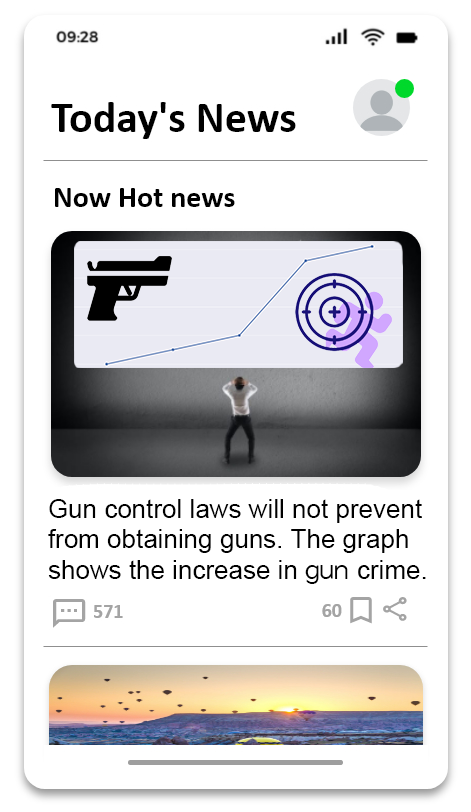
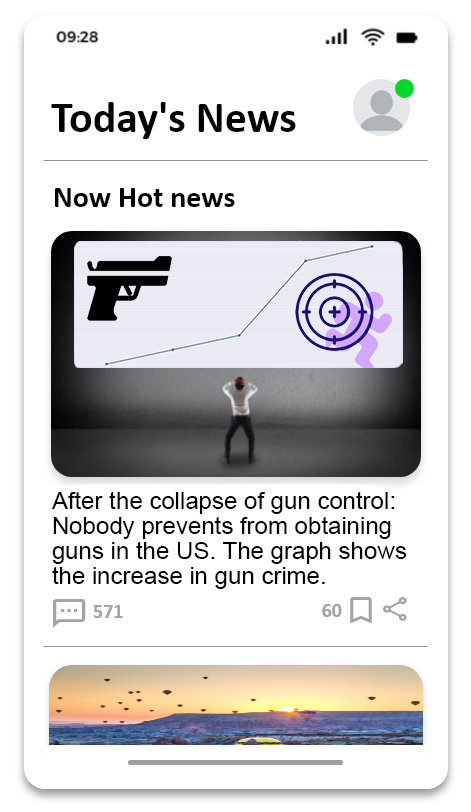
mod new tweet and content images for liberal

Changed region(s): [[0.0892, 0.585, 0.8917, 0.7389]]

diff --git a/static/js/scenario/tax-cut/template.js b/static/js/scenario/tax-cut/template.js
@@ -13,7 +13,7 @@ const popupExample = `
 `;
 
 export const contentHTML = [
-  `<div class="scenario-title">Scenario - User similarity<br />(Tax cut)</div>`,
+  `<div class="scenario-title">Scenario - User similarity<br />(Gun)</div>`,
   `<p>User similarity means that group members consume information which is provided by <span class="highlight">like-minded</span>, <span class="highlight">ideologically similar</span> others.</p>`,
   `<p>Community members are on one particular political side. They are strong democrats. The phrases they usually use are as below.</p><br /><br />
    <img src="../static/images/tax-cut/keyword_L.png" class="keyword-img"/>
@@ -25,7 +25,7 @@ export const contentHTML = [
     </div>
     <div id="example-tweet-2">
         ${exampleTweetTemplate(example2)}
-    </div>
+   </div>
     <p id="after-tweet-explain">If you choose two strong tweets within three trials, you can complete this stage with a high score.</p>`,
   `${tweetSelectTemplate(message.selectTweetGuide1, popupExample)}`,
   `${tweetSelectTemplate(message.selectTweetGuide2, popupExample)}`,
@@ -35,7 +35,7 @@ export const contentHTML = [
   `<div>
       <img src="../static/images/tax-cut/effect_L.png" class="fakenews-phone-img"/>
       <p class="fakenews-p">Hold on!<br><br>
-      Some guys are spreading fake news related with taxes in the community.
+      Some guys are spreading fake news related with gun control in the community.
       Due to the echo chamber you made, people are easily fooled by fake news.</p>
     </div>`,
   `<div class="effect-response-div">
@@ -45,7 +45,7 @@ export const contentHTML = [
                 <img class="tweets-img" src="../static/images/tax-cut/profile4.jpg">
                 <p class="tweets-name">@TigerTigerTiger</p>
                 <br style="clear: left;">
-                <p class="tweets-p">I think the welfare is going to blow up because of the tax cuts. I'm so nervous. <span name="tweets-response-name">#NoTaxCuts</span></p><br><br>
+                <p class="tweets-p">I think the society is going to blow up because of the gun crime. I'm so nervous. <span name="tweets-response-name">#GunControl</span></p><br><br>
             </button>
         </div>
         <div id="effect-response2" class="effect-response">
@@ -53,7 +53,7 @@ export const contentHTML = [
                 <img class="tweets-img" src="../static/images/tax-cut/profile2.jpg">
                 <p class="tweets-name">@BT2122</p>
                 <br style="clear: left;">
-                <p class="tweets-p">I'm so angry that the society is going to collapse. NO WAY!!!! <span name="tweets-response-name">#StopTaxCut</span></p><br><br>
+                <p class="tweets-p">I'm so angry that the society is going to collapse. NO WAY!!!! <span name="tweets-response-name">#GVRO</span></p><br><br>
             </button>
         </div>
         <div id="effect-response3" class="effect-response">
@@ -61,7 +61,7 @@ export const contentHTML = [
                 <img class="tweets-img" src="../static/images/tax-cut/profile5.jpg">
                 <p class="tweets-name">@Lucas2</p>
                 <br style="clear: left;">
-                <p class="tweets-p">How should I get social security? Why do they keep bothering me? <span name="tweets-response-name">#NoTaxCuts #SocialSecurity</span></p><br><br>
+                <p class="tweets-p">How should I get guns? Why do they keep threatening me?<span name="tweets-response-name">#GunControl #SecureSociety</span></p><br><br>
             </button>
         </div>
     </div>`,

diff --git a/static/js/scenario/anti-vaccine/template.js b/static/js/scenario/anti-vaccine/template.js
@@ -12,7 +12,7 @@ const popupExample = `
 `;
 
 export const contentHTML = [
-  `<div class="scenario-title">Scenario - Social boundary<br />(Health)</div>`,
+  `<div class="scenario-title">Scenario - Social boundary<br />(Abortion)</div>`,
   `<p>Social boundary is one of the characteristics of an echo chamber group, where one's beliefs or opinions are strongly bounded or formed by a group.</p>`,
   `<p>Social boundary occurs when community members interact only among themselves, and the members tend to use negative expressions and hate speech. For example,</p><div class='inner-explain-content'>Angrier than other groups<br>Evokes intentional acts, statements and hindering<br>Emphasizes opposite side</div><p>Click “Next” to see tweet examples from community members.</p>`,
   `<p id="before-example-explain">Below are the examples of <span class="highlight">strong tweets</span>. You should find them to fall your community members into the echo chamber.</p>
@@ -33,7 +33,7 @@ export const contentHTML = [
         <p class="fakenews-p">Hold on!<br><br>
         Some guys are spreading fake news related to abortion in the community. Due to the echo chamber you made, people are easily fooled by fake news.  </p>
     </div>`,
-  `<p>No way!!<br><br>Community people are being completely fooled.<br><br>Do you remember the community member <span name='tweets-response-name'>@Jacob</span>?<br><br>He's gathering with parents to protest against the mayor who insisted on legalized abortion.<br>Wait a minute. I'll show you the protest.</p>`,
+  `<p>No way!!<br><br>Community people are being completely fooled.<br><br>Do you remember the community member <span name='tweets-response-name'>@Jacob</span>?<br><br>He's gathering with parents to protest against the mayor who insisted on the illegalization of abortion.<br>Wait a minute. I'll show you the protest.</p>`,
   `<img src="../static/images/anti-vaccine/news.jpg" class="news-img"/><br>
     <p>There's more and more people coming in.<br>Newsmans are here to cover this scene.</p>`,
   `<img id="newspaper-img" src="../static/images/anti-vaccine/newspaper.jpg" class="newspaper-img"/>

diff --git a/static/js/scenario/tax-cut/data.js b/static/js/scenario/tax-cut/data.js
@@ -5,7 +5,7 @@ import { tweetsArray, retweetsTemplate } from '../tweet-template.js';
 export const example1 = {
   src: '../static/images/tax-cut/example1.jpg',
   name: 'Noah2020',
-  content: `I would suggest you listen to this article <span>(https://bit.ly/5TlzHK9Q)</span>. Police and soldiers are enough to carry a gun. It is too dangerous for an uneducated citizen to have a gun. Look at the innocent dead. A lot of people died because of money. EVERYONE HAS A RIGHT TO BE HAPPY.`,
+  content: `Again, Americans are killed by a weapon of war. It is not a JUST SOCIETY that an innocent person is shot to death for no reason. I simply don't understand idiots who give up their life.`,
 };
 
 export const example2 = {
@@ -34,7 +34,7 @@ export const tweetData = {
     level: `NS1`,
     src: `../static/images/tax-cut/profile3.jpg`,
     name: `MartinMartin`,
-    content: `수정 필요 Morrison and Frydenberg say taxcut will produce higher wages. You know, Trickle down economics has been shown that.`,
+    content: `Why should we sacrifice our safety for the benefit of gun companies? Let's protect human rights.  Get out of the gun company that supports gun violence.`,
     code: `T2-4`,
   },
   4: {
@@ -48,14 +48,14 @@ export const tweetData = {
     level: `NS2`,
     src: `../static/images/tax-cut/profile5.jpg`,
     name: `Lucas2`,
-    content: `수정 필요 Do you agree with it? Tax cuts generally mean education cut, unless you can pay by yourself. It means that Welfare goes out the window.`,
+    content: `Do you agree with it? Gun control can make a safe society. It means that gun crimes go out the window.`,
     code: `T2-5`,
   },
   6: {
     level: `NS2`,
     src: `../static/images/tax-cut/profile6.jpg`,
     name: `MMMargiela`,
-    content: `수정 필요 it's not surprising. They are also owned by wealthy people and like the tax-cuts.`,
+    content: `Police and soldiers are enough to carry a gun. It is too dangerous for an uneducated citizen to have a gun. Everyone has a right to be safe.`,
     code: `T2-6`,
   },
 };

diff --git a/static/js/scenario/global-warming/template.js b/static/js/scenario/global-warming/template.js
@@ -12,7 +12,7 @@ const popupExample = `
 `;
 
 export const contentHTML = [
-  `<div class="scenario-title">Scenario - Information homogeneity<br />(Environment)</div>`,
+  `<div class="scenario-title">Scenario - Information homogeneity<br />(Inflation)</div>`,
   `<p>Information homogeneity means consumption of information that only conforms to their <span class="highlight">beliefs</span>, confirms their previously held <span class="highlight">opinions</span>, and express the <span class="highlight">same point</span> of views.</p>`,
   `<p>Community members sometimes provide evidence or additional information to strengthen their opinions and make them more persuasive.<br><br>Click “Next” to see tweet examples from community members.</p>`,
   `<p id="before-example-explain">Below are the examples of <span class="highlight">strong tweets</span>. You should find them to fall your community members into the echo chamber.</p>
@@ -30,7 +30,7 @@ export const contentHTML = [
   `<p>Wow, good job.<br><br>It seems like you've successfully made community members fall into an echo chamber.</p>`,
   `<div>
         <img src="../static/images/global-warming/effect_L.png" class="fakenews-phone-img"/>
-        <p class="fakenews-p">Hold on!<br><br>Some guys are spreading fake news related to global warming in the community. Due to the echo chamber you made, people are easily fooled by fake news.</p>
+        <p class="fakenews-p">Hold on!<br><br>Some guys are spreading fake news related to Inflation in the community. Due to the echo chamber you made, people are easily fooled by fake news.</p>
     </div>`,
   `<p>WOW!!<br><br>
     Do you remember the community member <span>@Levi</span>?<br><br>

diff --git a/static/js/scenario/anti-vaccine/data.js b/static/js/scenario/anti-vaccine/data.js
@@ -26,7 +26,7 @@ export const tweetData = {
     level: `NS1`,
     src: `../static/images/anti-vaccine/profile2.jpg`,
     name: `MASONSON`,
-    content: `수정 필요 I’ve had both shots and booster. I got Covid. It was very mild. We’ve seen globally that the vaccines reduce severity of the illness for those that do get it.`,
+    content: `What a messed-up world we live in. Is legalizing abortion a retreat in human rights? Many say abortion should be legal if the woman’s life is in danger.`,
     code: `T1-4`,
   },
   3: {
@@ -40,7 +40,7 @@ export const tweetData = {
     level: `NS2`,
     src: `../static/images/anti-vaccine/profile4.jpg`,
     name: `William5454`,
-    content: `수정 필요 Wear a mask! I've seen people get covid lately even after three rounds of booster shots. I don't get this YOLO attitude, I'm saying again, WEAR A MASK!`,
+    content: `I want to live in a world without idiots. Why do people decide on the life of women? This is anti-human rights behavior.`,
     code: `T1-5`,
   },
   5: {
@@ -54,7 +54,7 @@ export const tweetData = {
     level: `NS2`,
     src: `../static/images/anti-vaccine/profile6.jpg`,
     name: `Sofia`,
-    content: `수정 필요 I had my booster Mid December and my second booster a week ago together with a flue shot. I know that they are safe, effective at ending the pandemic because the government and big pharma.`,
+    content: `Does it make sense that abortion is illegal in the 21st century? I know that it is safe, and effective at ending many problems.`,
     code: `T1-6`,
   },
 };

diff --git a/static/js/scenario/global-warming/data.js b/static/js/scenario/global-warming/data.js
@@ -19,7 +19,7 @@ export const tweetData = {
     level: `NS1`,
     src: `../static/images/global-warming/profile1.jpg`,
     name: `Levi`,
-    content: `수정 필요 It is true that the The Arctic Ocean's temperature has risen slightly from 100 years ago, but it is not serious. The temperature rise itself cannot be denied. We need to take a closer look at this global warming.`,
+    content: `It is not serious. Why do people criticize an economic policy? Is it to show how stupid you are? We need to take a closer look at the economic condition.`,
     code: `T3-4`,
   },
   2: {
@@ -40,7 +40,7 @@ export const tweetData = {
     level: `NS2`,
     src: `../static/images/global-warming/profile4.jpg`,
     name: `IgnisAqua`,
-    content: `수정 필요 We should know truth about global warming, You need to know the truth.`,
+    content: `Joe is not the cause of inflation. We should know truth about inflation, You need to know the truth.`,
     code: `T3-5`,
   },
   5: {
@@ -54,7 +54,7 @@ export const tweetData = {
     level: `NS2`,
     src: `../static/images/global-warming/profile6.jpg`,
     name: `JJack486`,
-    content: `수정 필요 Sea ice in the Arctic Ocean around the North Pole is melting faster with the warmer temperatures.`,
+    content: `We will experience 10% inflation soon thank to gov... Stupid policies make life difficult for citizens. I can't stand this anymore!`,
     code: `T3-6`,
   },
 };
